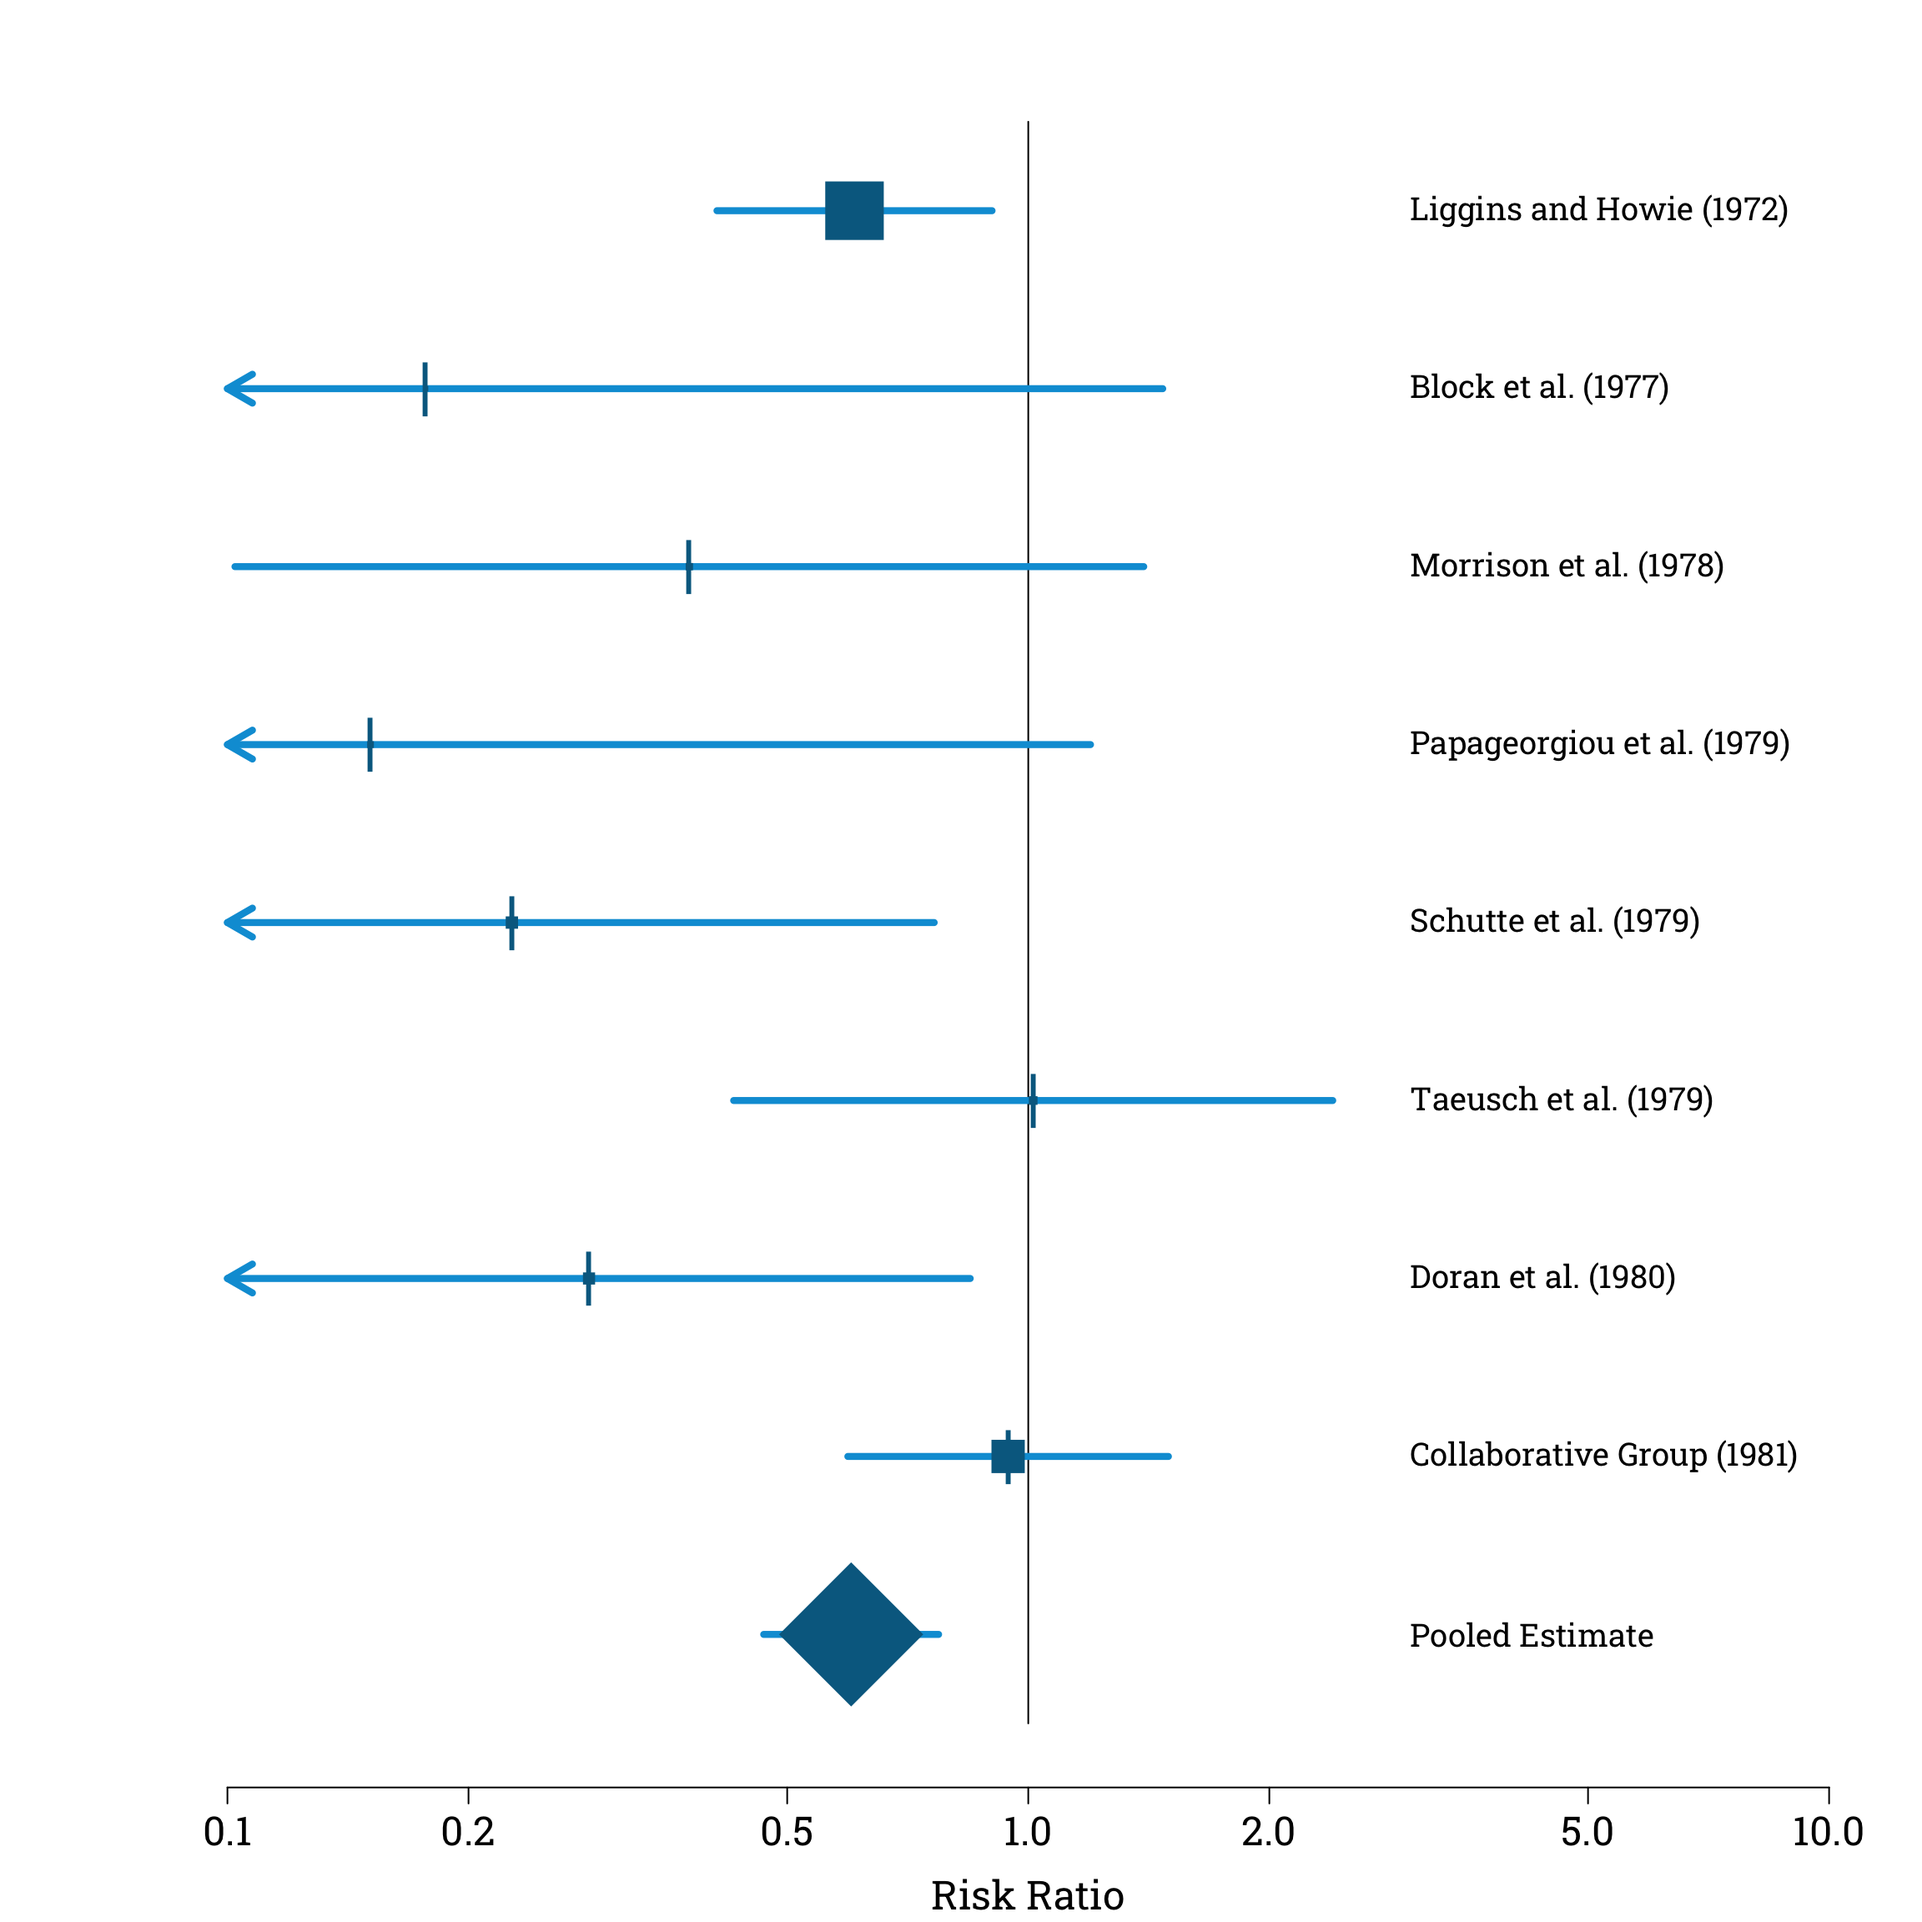
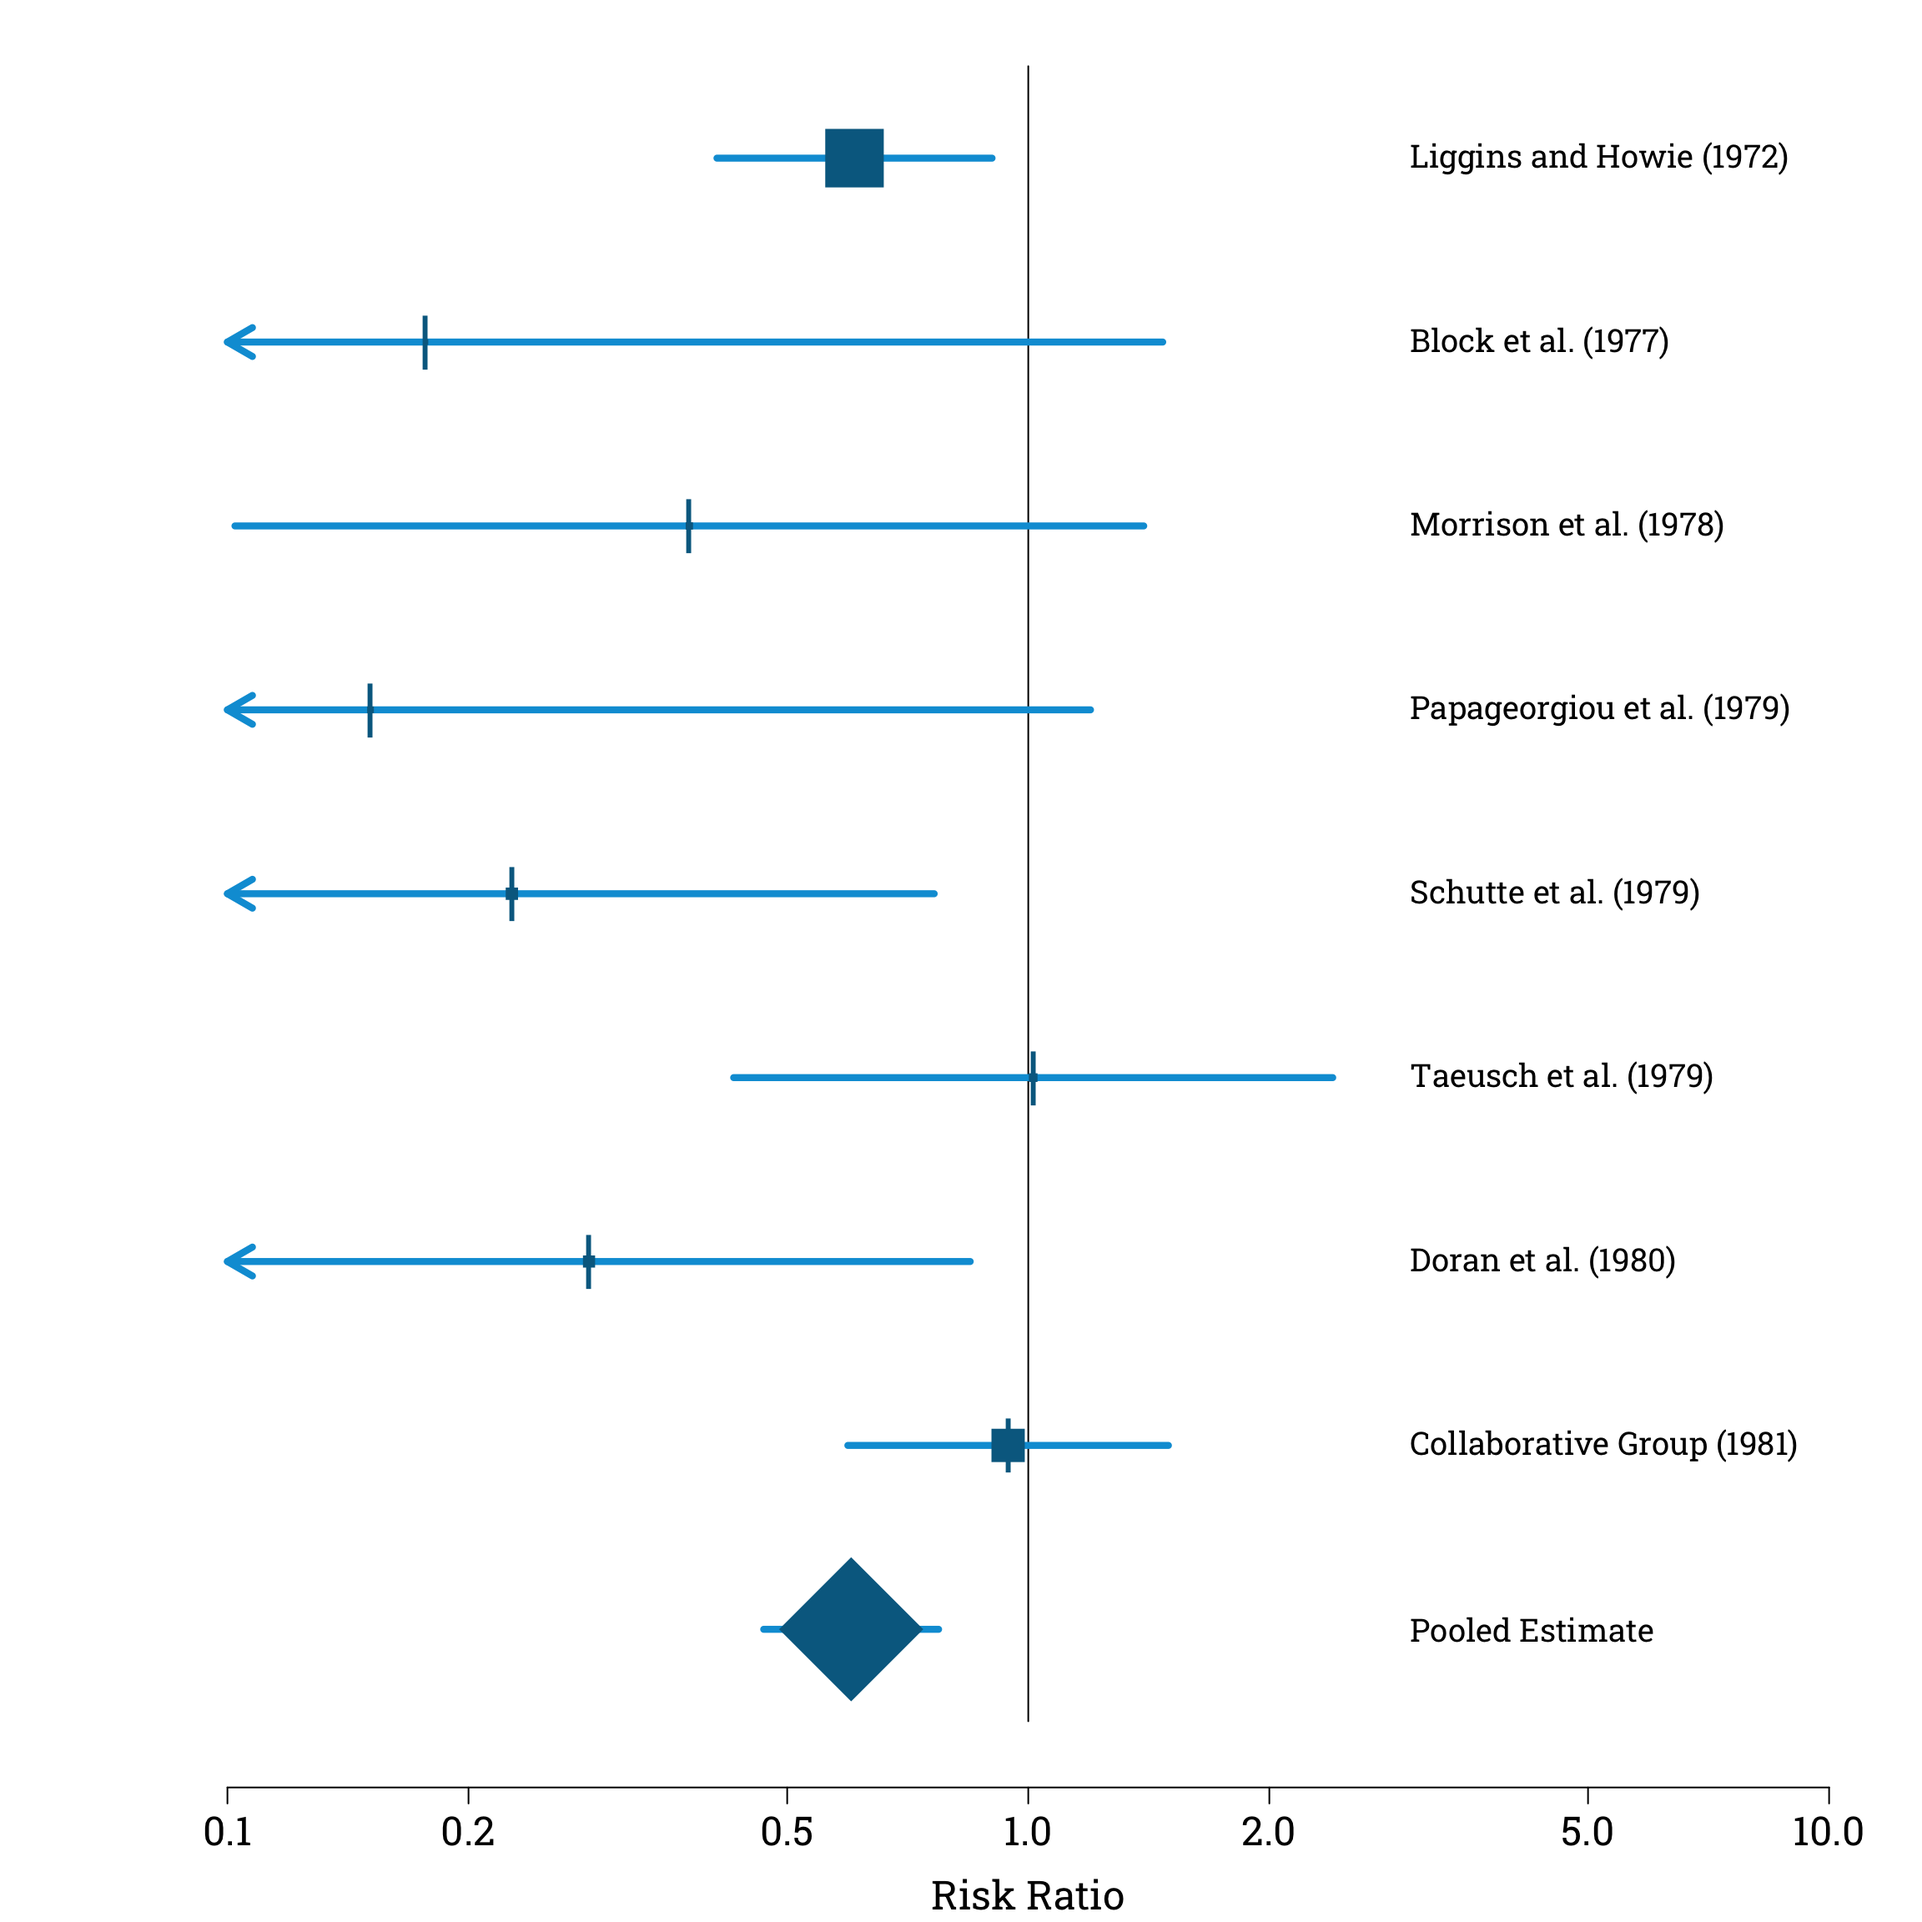
Changing plot margins

diff --git a/docs/posts/evidence-synthesis-and-forest-plots/index.html b/docs/posts/evidence-synthesis-and-forest-plots/index.html
@@ -434,7 +434,7 @@ Collaborative Group
 <span id="cb2-19"><a href="#cb2-19" aria-hidden="true" tabindex="-1"></a>  }</span>
 <span id="cb2-20"><a href="#cb2-20" aria-hidden="true" tabindex="-1"></a>}</span>
 <span id="cb2-21"><a href="#cb2-21" aria-hidden="true" tabindex="-1"></a></span>
-<span id="cb2-22"><a href="#cb2-22" aria-hidden="true" tabindex="-1"></a><span class="fu">par</span>(<span class="at">mar=</span><span class="fu">c</span>(<span class="at">bottom=</span><span class="fl">4.2</span>, <span class="at">left=</span><span class="fl">5.1</span>, <span class="at">top=</span><span class="fl">1.8</span>, <span class="at">right=</span><span class="fl">0.9</span>), <span class="at">family=</span><span class="st">"Roboto Slab"</span>) <span class="co"># setting the plot options</span></span>
+<span id="cb2-22"><a href="#cb2-22" aria-hidden="true" tabindex="-1"></a><span class="fu">par</span>(<span class="at">mar=</span><span class="fu">c</span>(<span class="at">bottom=</span><span class="fl">4.2</span>, <span class="at">left=</span><span class="fl">5.1</span>, <span class="at">top=</span><span class="dv">0</span>, <span class="at">right=</span><span class="fl">0.9</span>), <span class="at">family=</span><span class="st">"Roboto Slab"</span>) <span class="co"># setting the plot options</span></span>
 <span id="cb2-23"><a href="#cb2-23" aria-hidden="true" tabindex="-1"></a><span class="fu">empty_forest_plot</span>(<span class="at">xax=</span><span class="fu">c</span>(<span class="fl">0.1</span>, <span class="dv">10</span>), <span class="at">yax=</span><span class="fu">c</span>(<span class="fl">0.5</span>, <span class="fl">8.5</span>))</span>
 <span id="cb2-24"><a href="#cb2-24" aria-hidden="true" tabindex="-1"></a><span class="fu">points</span>(steroid_trials<span class="sc">$</span>risk_ratio, <span class="dv">8</span><span class="sc">:</span><span class="dv">1</span>, </span>
 <span id="cb2-25"><a href="#cb2-25" aria-hidden="true" tabindex="-1"></a>       <span class="at">pch=</span><span class="dv">4</span>, <span class="at">col=</span><span class="st">"#006a90"</span>, <span class="at">cex=</span><span class="fl">1.8</span>, <span class="at">lwd=</span><span class="fl">4.2</span>)</span></code></pre></div>
@@ -471,7 +471,7 @@ Collaborative Group
 <span id="cb3-14"><a href="#cb3-14" aria-hidden="true" tabindex="-1"></a>  confidence_intervals<span class="sc">$</span>upper[i] <span class="ot">&lt;-</span> <span class="fu">exp</span>(log_upper)</span>
 <span id="cb3-15"><a href="#cb3-15" aria-hidden="true" tabindex="-1"></a>}</span>
 <span id="cb3-16"><a href="#cb3-16" aria-hidden="true" tabindex="-1"></a></span>
-<span id="cb3-17"><a href="#cb3-17" aria-hidden="true" tabindex="-1"></a><span class="fu">par</span>(<span class="at">mar=</span><span class="fu">c</span>(<span class="at">bottom=</span><span class="fl">4.2</span>, <span class="at">left=</span><span class="fl">5.1</span>, <span class="at">top=</span><span class="fl">1.8</span>, <span class="at">right=</span><span class="fl">0.9</span>), <span class="at">family=</span><span class="st">"Roboto Slab"</span>)</span>
+<span id="cb3-17"><a href="#cb3-17" aria-hidden="true" tabindex="-1"></a><span class="fu">par</span>(<span class="at">mar=</span><span class="fu">c</span>(<span class="at">bottom=</span><span class="fl">4.2</span>, <span class="at">left=</span><span class="fl">5.1</span>, <span class="at">top=</span><span class="dv">0</span>, <span class="at">right=</span><span class="fl">0.9</span>), <span class="at">family=</span><span class="st">"Roboto Slab"</span>)</span>
 <span id="cb3-18"><a href="#cb3-18" aria-hidden="true" tabindex="-1"></a><span class="fu">empty_forest_plot</span>(<span class="at">xax=</span><span class="fu">c</span>(<span class="fl">0.1</span>, <span class="dv">10</span>), <span class="at">yax=</span><span class="fu">c</span>(<span class="fl">0.5</span>, <span class="fl">8.5</span>))</span>
 <span id="cb3-19"><a href="#cb3-19" aria-hidden="true" tabindex="-1"></a></span>
 <span id="cb3-20"><a href="#cb3-20" aria-hidden="true" tabindex="-1"></a>plot_CIs <span class="ot">&lt;-</span> <span class="cf">function</span>(CIs_df) {</span>
@@ -589,7 +589,7 @@ w_i=\frac{(a_i+b_i)c_i}{a_i+b_i+c_i+d_i},
 <span id="cb6-25"><a href="#cb6-25" aria-hidden="true" tabindex="-1"></a>log_CI_upper <span class="ot">&lt;-</span> <span class="fu">log</span>(pooled_rr_estimate) <span class="sc">+</span> z_val <span class="sc">*</span> log_SE</span>
 <span id="cb6-26"><a href="#cb6-26" aria-hidden="true" tabindex="-1"></a>CI <span class="ot">&lt;-</span> <span class="fu">exp</span>(<span class="fu">c</span>(log_CI_lower, log_CI_upper))</span>
 <span id="cb6-27"><a href="#cb6-27" aria-hidden="true" tabindex="-1"></a></span>
-<span id="cb6-28"><a href="#cb6-28" aria-hidden="true" tabindex="-1"></a><span class="fu">par</span>(<span class="at">mar=</span><span class="fu">c</span>(<span class="at">bottom=</span><span class="fl">4.2</span>, <span class="at">left=</span><span class="fl">5.1</span>, <span class="at">top=</span><span class="fl">1.8</span>, <span class="at">right=</span><span class="fl">0.9</span>), <span class="at">family=</span><span class="st">"Roboto Slab"</span>)</span>
+<span id="cb6-28"><a href="#cb6-28" aria-hidden="true" tabindex="-1"></a><span class="fu">par</span>(<span class="at">mar=</span><span class="fu">c</span>(<span class="at">bottom=</span><span class="fl">4.2</span>, <span class="at">left=</span><span class="fl">5.1</span>, <span class="at">top=</span><span class="dv">0</span>, <span class="at">right=</span><span class="fl">0.9</span>), <span class="at">family=</span><span class="st">"Roboto Slab"</span>)</span>
 <span id="cb6-29"><a href="#cb6-29" aria-hidden="true" tabindex="-1"></a><span class="fu">empty_forest_plot</span>(<span class="at">xax=</span><span class="fu">c</span>(<span class="fl">0.1</span>, <span class="dv">10</span>), <span class="at">yax=</span><span class="fu">c</span>(<span class="sc">-</span><span class="fl">0.5</span>, <span class="fl">8.5</span>))</span>
 <span id="cb6-30"><a href="#cb6-30" aria-hidden="true" tabindex="-1"></a><span class="fu">text</span>(<span class="dv">3</span>, <span class="dv">0</span>, <span class="at">adj=</span><span class="dv">0</span>, <span class="st">"Pooled Estimate"</span>, <span class="at">cex=</span><span class="fl">1.2</span>)</span>
 <span id="cb6-31"><a href="#cb6-31" aria-hidden="true" tabindex="-1"></a></span>

diff --git a/docs/index.html b/docs/index.html
@@ -209,7 +209,7 @@ Diagnostic Testing and Bayes’ Theorem
 </div>
 </a>
 </div>
-<div class="g-col-1" data-index="2" data-listing-date-sort="1739836800000" data-listing-file-modified-sort="1739870807169" data-listing-date-modified-sort="NaN" data-listing-reading-time-sort="18" data-listing-word-count-sort="3514">
+<div class="g-col-1" data-index="2" data-listing-date-sort="1739836800000" data-listing-file-modified-sort="1739871682385" data-listing-date-modified-sort="NaN" data-listing-reading-time-sort="18" data-listing-word-count-sort="3514">
 <a href="./posts/evidence-synthesis-and-forest-plots/index.html" class="quarto-grid-link">
 <div class="quarto-grid-item card h-100 card-left">
 <p class="card-img-top">
